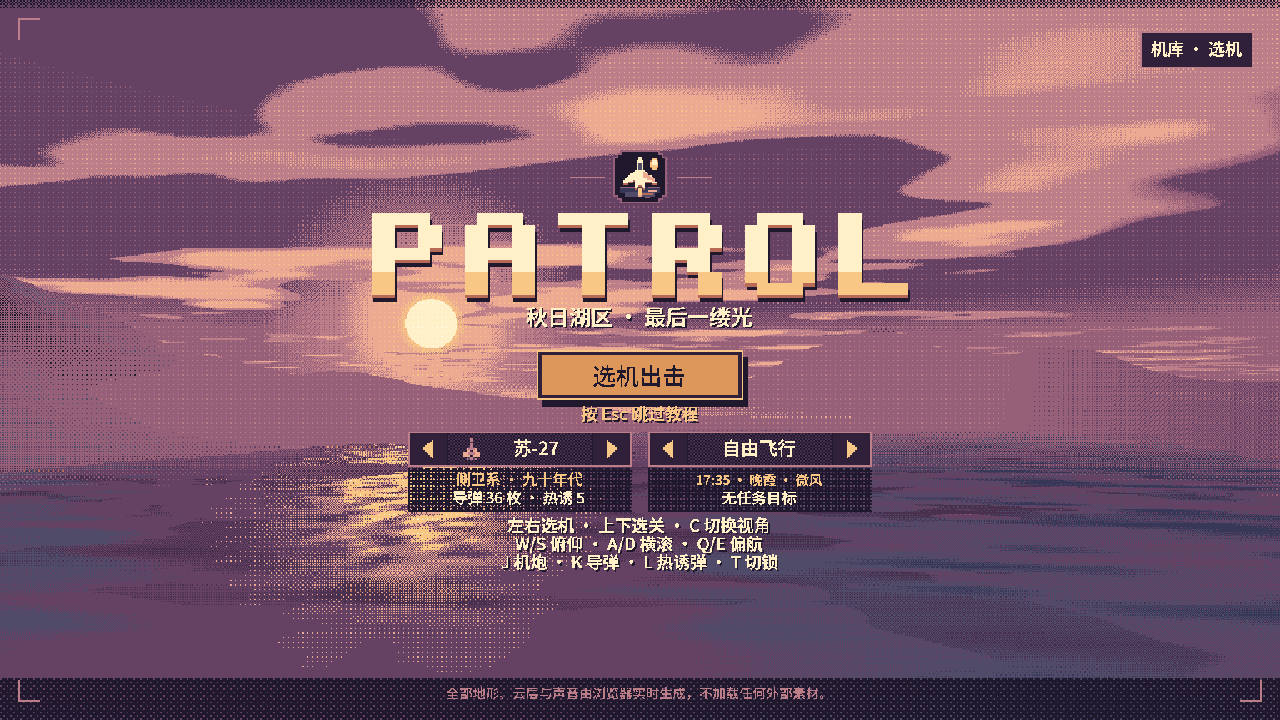
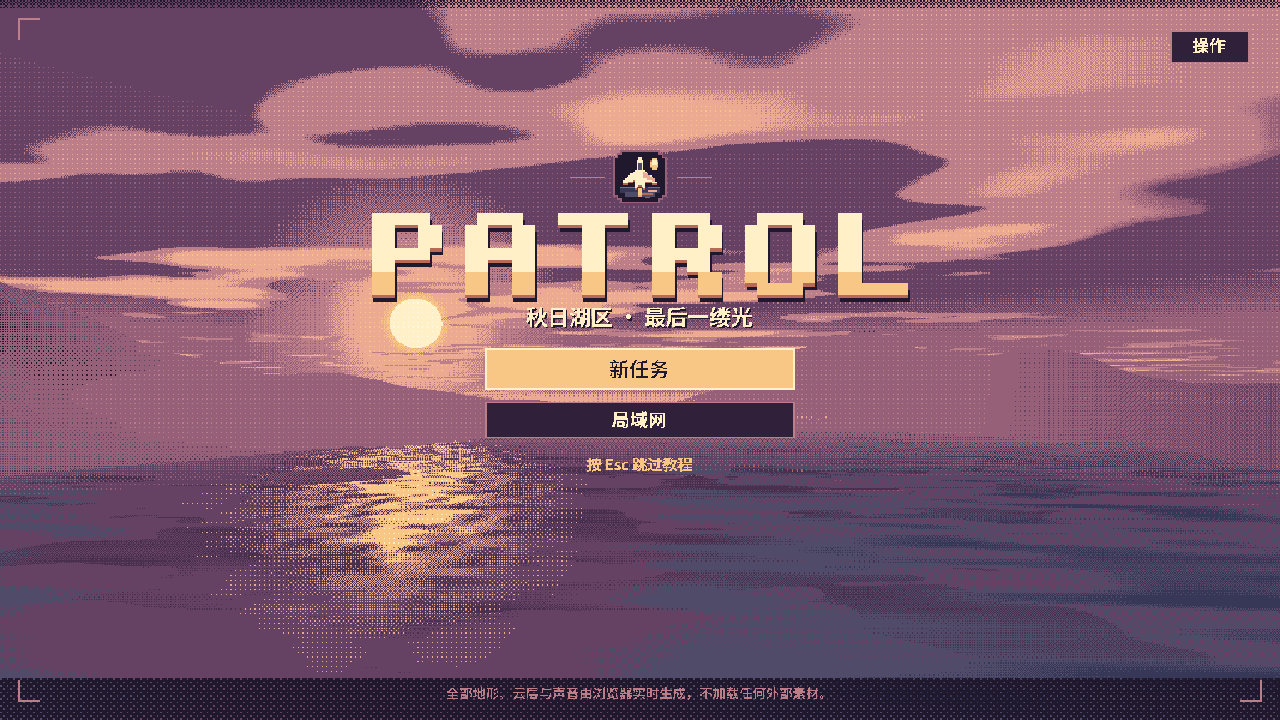
docs: refresh PATROL flight and LAN guide

diff --git a/README.md b/README.md
@@ -11,6 +11,8 @@
   &nbsp;·&nbsp;
   <a href="#怎么飞">怎么飞</a>
   &nbsp;·&nbsp;
+  <a href="#两个人怎么飞">双人联机</a>
+  &nbsp;·&nbsp;
   <a href="#english">English</a>
 </p>
 
@@ -23,8 +25,8 @@
 - **自由飞行** — 在晴空、低云和薄暮之间换一条航线。掠水、爬升、倒飞，或只是沿着秋日的山谷巡航。俯冲能积累速度，拉升会消耗能量，轻擦水面会溅起一串像素水花。
 - **暮湾航线** — 从引航台失联开始，穿过五章逐步展开的任务。雷达上有巡航与截击无人机、移动中继车和干扰机。两章允许驾驶大型机，投送引航信标，接通撤离航线。
 - **机库** — 出击前从 13 款机体中挑选。苏-27、米格-21、F-16、歼-20、B-52、图-95、轰-6 等机型各有独立外形与飞行手感。可以拖动查看机体，也可以切到顶视、侧视和正视。
-- **电脑僚机** — 在机库开启僚机，让它保持编队、协同交战或返队。驾驶大型机出击时，僚机会默认护航。
-- **双人局域网** — 和朋友各自选机，在同一片湖区合作清除任务目标，或在南岸空域打一场一对一。
+- **电脑僚机** — 机库可开关僚机。在空中指挥它保持编队、协同交战或返队。驾驶大型机出击时，僚机会默认护航，雷达上可以随时找到它。
+- **双人局域网** — 和朋友各自选机，在「暮光失联」或「湖面试航」并肩完成任务，也可以到南岸打一场 150 秒的空中对决。
 
 | 暮湾湖区 | 歼-11 机库预览 |
 | :---: | :---: |
@@ -32,7 +34,11 @@
 
 ## 怎么飞
 
-下载 [`index.html`](https://github.com/Laser1209/patrol/raw/refs/heads/main/index.html) 并用浏览器打开。若链接显示为源码，在该页另存为 `index.html` 即可。从 **新任务** 选择航段、查看简报，在机库挑好机型后点 **确认出击**。第一次飞行可以跟随座舱内的新手提示。
+下载 [`index.html`](https://github.com/Laser1209/patrol/raw/refs/heads/main/index.html) 并用浏览器打开。若链接显示为源码，在该页另存为 `index.html` 即可。
+
+**新任务 → 选择航段 → 查看简报 → 机库选机 → 确认出击**
+
+第一次飞行可以跟随座舱内的新手提示。单机飞行中可从暂停菜单选择 **保存并返回标题**，之后选 **继续上次** 直接续飞。进入下一章或重开本关时可以换机。
 
 | 按键 | 操作 |
 | :--- | :--- |
@@ -41,18 +47,37 @@
 | `C` | 切换座舱与追尾视角 |
 | `J` · `K` · `L` · `T` | 机炮 · 导弹 · 热诱弹 · 切换锁定 |
 | `U` | 切换僚机指令 |
-| `P` | 暂停，可保存并退出 |
+| `B` | 在指定任务中投送信标 |
+| `P` · `R` | 打开菜单 · 单机重开本关 |
 
-手机上可使用触屏摇杆、油门和任务按钮。中途保存退出后，在标题页选择 **继续上次** 即可续飞。
+手机上可使用触屏摇杆、油门和任务按钮，轻触僚机状态牌可切换指令。
 
 ### 两个人怎么飞
 
-两台设备打开同一版本的游戏，接入同一局域网。在 **局域网** 中由一方创建房间并发送邀请文本，另一方加入后将回执文本发回。房主把回执粘贴到游戏里，两人选机并准备，就可以出击。首版采用浏览器直连，连接是否可用取决于网络与浏览器设置。
+两台设备打开同一版本的 `index.html`，接入同一局域网。联机采用浏览器直连，连接是否可用取决于网络与浏览器设置。
+
+1. **房主**在标题页选 **局域网 → 创建房间**，复制邀请文本发给朋友。
+2. **加入方**选 **局域网 → 加入房间**，粘贴邀请，再把生成的回执发回房主。
+3. **房主**点 **粘贴回执**。连上后，房主选好模式和场地，双方各自在机库选机并点击 **准备**，最后由房主点 **确认出击**。
+
+合作模式共享任务进度和积分，队友掉线时可由电脑僚机接替。对抗模式是南岸空域的 1 对 1。联机菜单只在本机打开，联机对局也不会覆盖单机存档。
+
+<p align="center">
+  <img src="docs/media/lan-room.png" alt="PATROL 局域网房间，显示合作任务、一对一对抗、机库选机与准备按钮" width="720">
+</p>
 
 ## English
 
 **PATROL** is a pixel-art arcade flight game set over an autumn lake country. Fly from the cockpit or the chase camera, explore at your own pace, or follow a five-chapter campaign through changing weather and terrain. Pick from 13 aircraft in the hangar before you take off.
 
-[Download the HTML file](https://github.com/Laser1209/patrol/raw/refs/heads/main/index.html) and open it in a browser. Choose **新任务** (New Mission), read the briefing and select an aircraft, then choose **确认出击** (Take Off). Choose **继续上次** (Continue) to resume a saved solo sortie.
+[Download the HTML file](https://github.com/Laser1209/patrol/raw/refs/heads/main/index.html) and open it in a browser. Choose **新任务** (New Mission), pick a sortie, read the briefing, and choose a plane in the hangar. Select **确认出击** (Take Off) to fly or **继续上次** (Continue) on the title screen to resume a saved solo sortie. Press `U` to cycle wingman orders when the AI wingman is enabled.
 
-Fly solo with an optional AI wingman, or choose **局域网** (LAN) for two-player co-op and duels. Open the same game version on both devices on the same network, exchange the invitation and reply texts, then select your aircraft and mark both pilots ready.
+### Two-player LAN
+
+Play either of two co-op sorties or fly a 150-second one-on-one duel over the south shore. Both devices should open the same game version on the same local network.
+
+1. The host chooses **局域网 → 创建房间** (LAN → Create Room) and sends the invitation text.
+2. The other player chooses **加入房间** (Join Room), pastes the invitation, and sends back the reply text.
+3. The host pastes the reply and chooses a mode and map. Both players pick a plane and mark themselves ready, then the host starts the sortie.
+
+In co-op, both players share mission progress and score. An AI wingman can take over if the other player disconnects. LAN matches leave solo saves intact.
